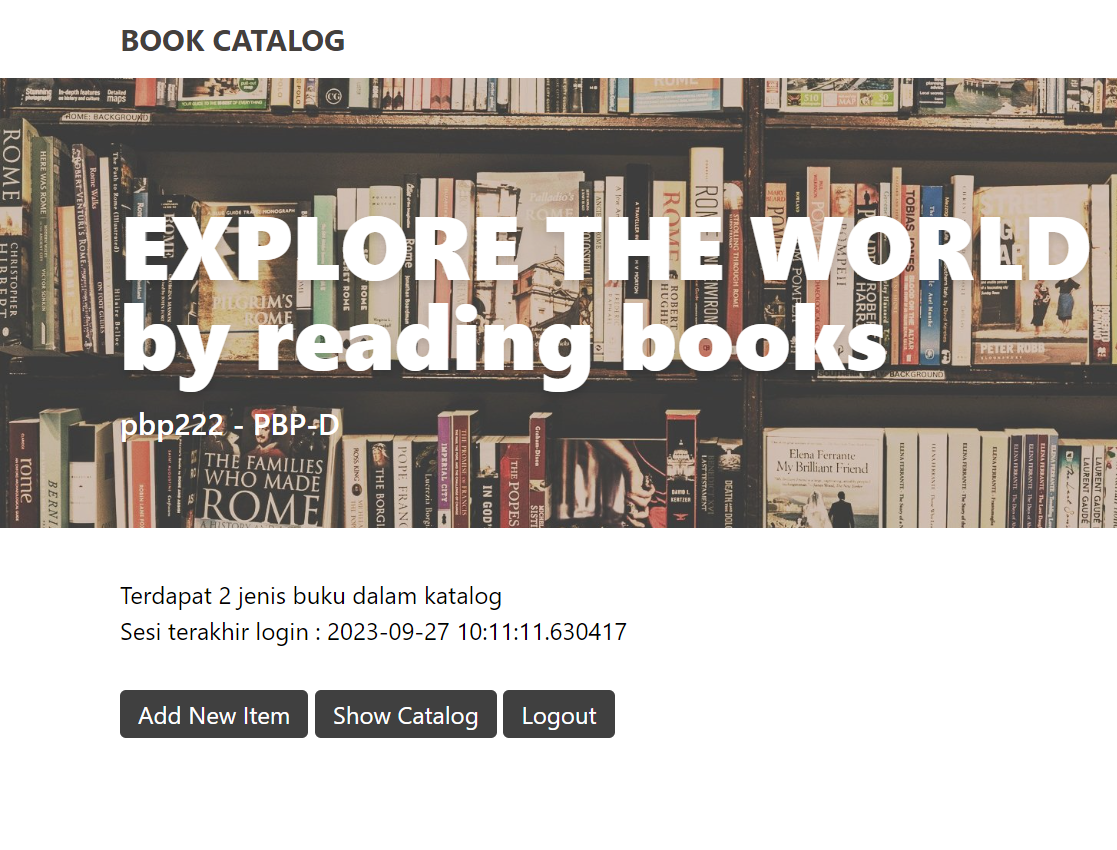
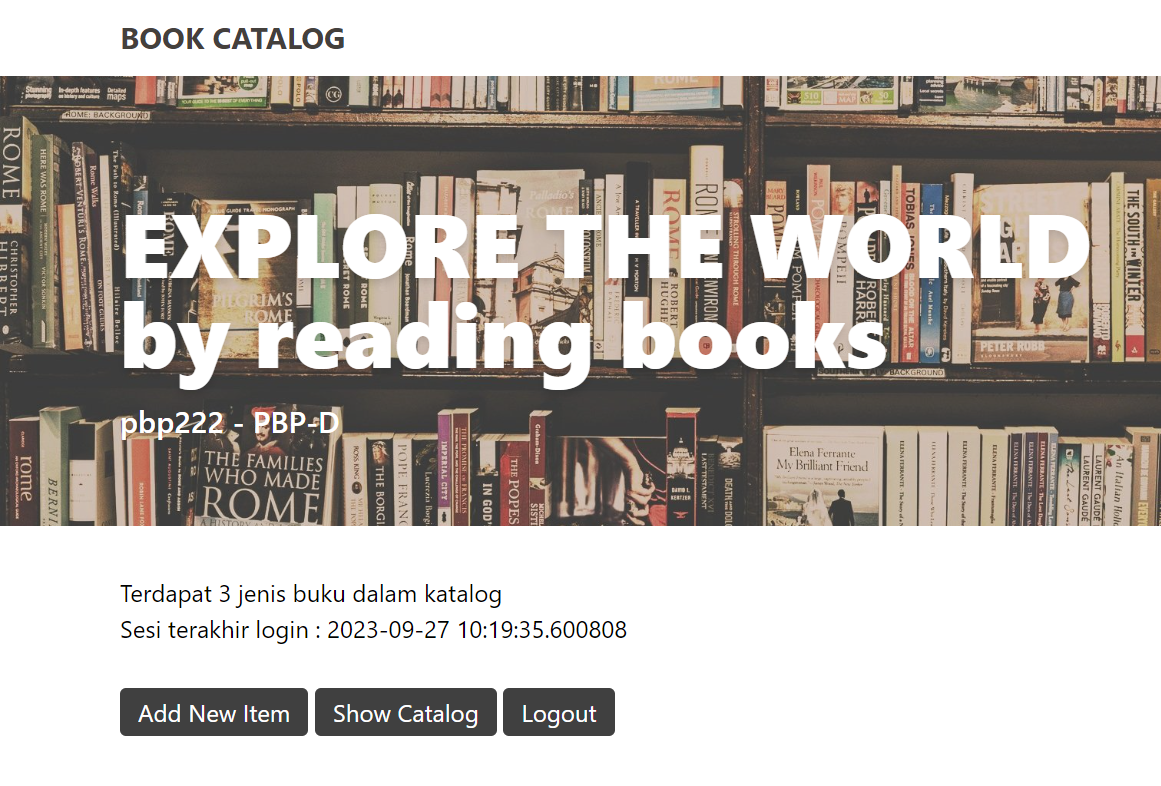
user2 add item

diff --git a/README.md b/README.md
@@ -757,7 +757,7 @@ Skeleton is needed to make sure our code on displaying data is consistent.
 <summary>(4) Make dummy users</summary>
 User 1 punya 5 jenis buku
 <img src="md_images/user1.png" alt="user 1">
-User 2 punya 2 jenis buku
+User 2 punya 3 jenis buku
 <img src="md_images/user2.png" alt="user 2">
 </details>
 
